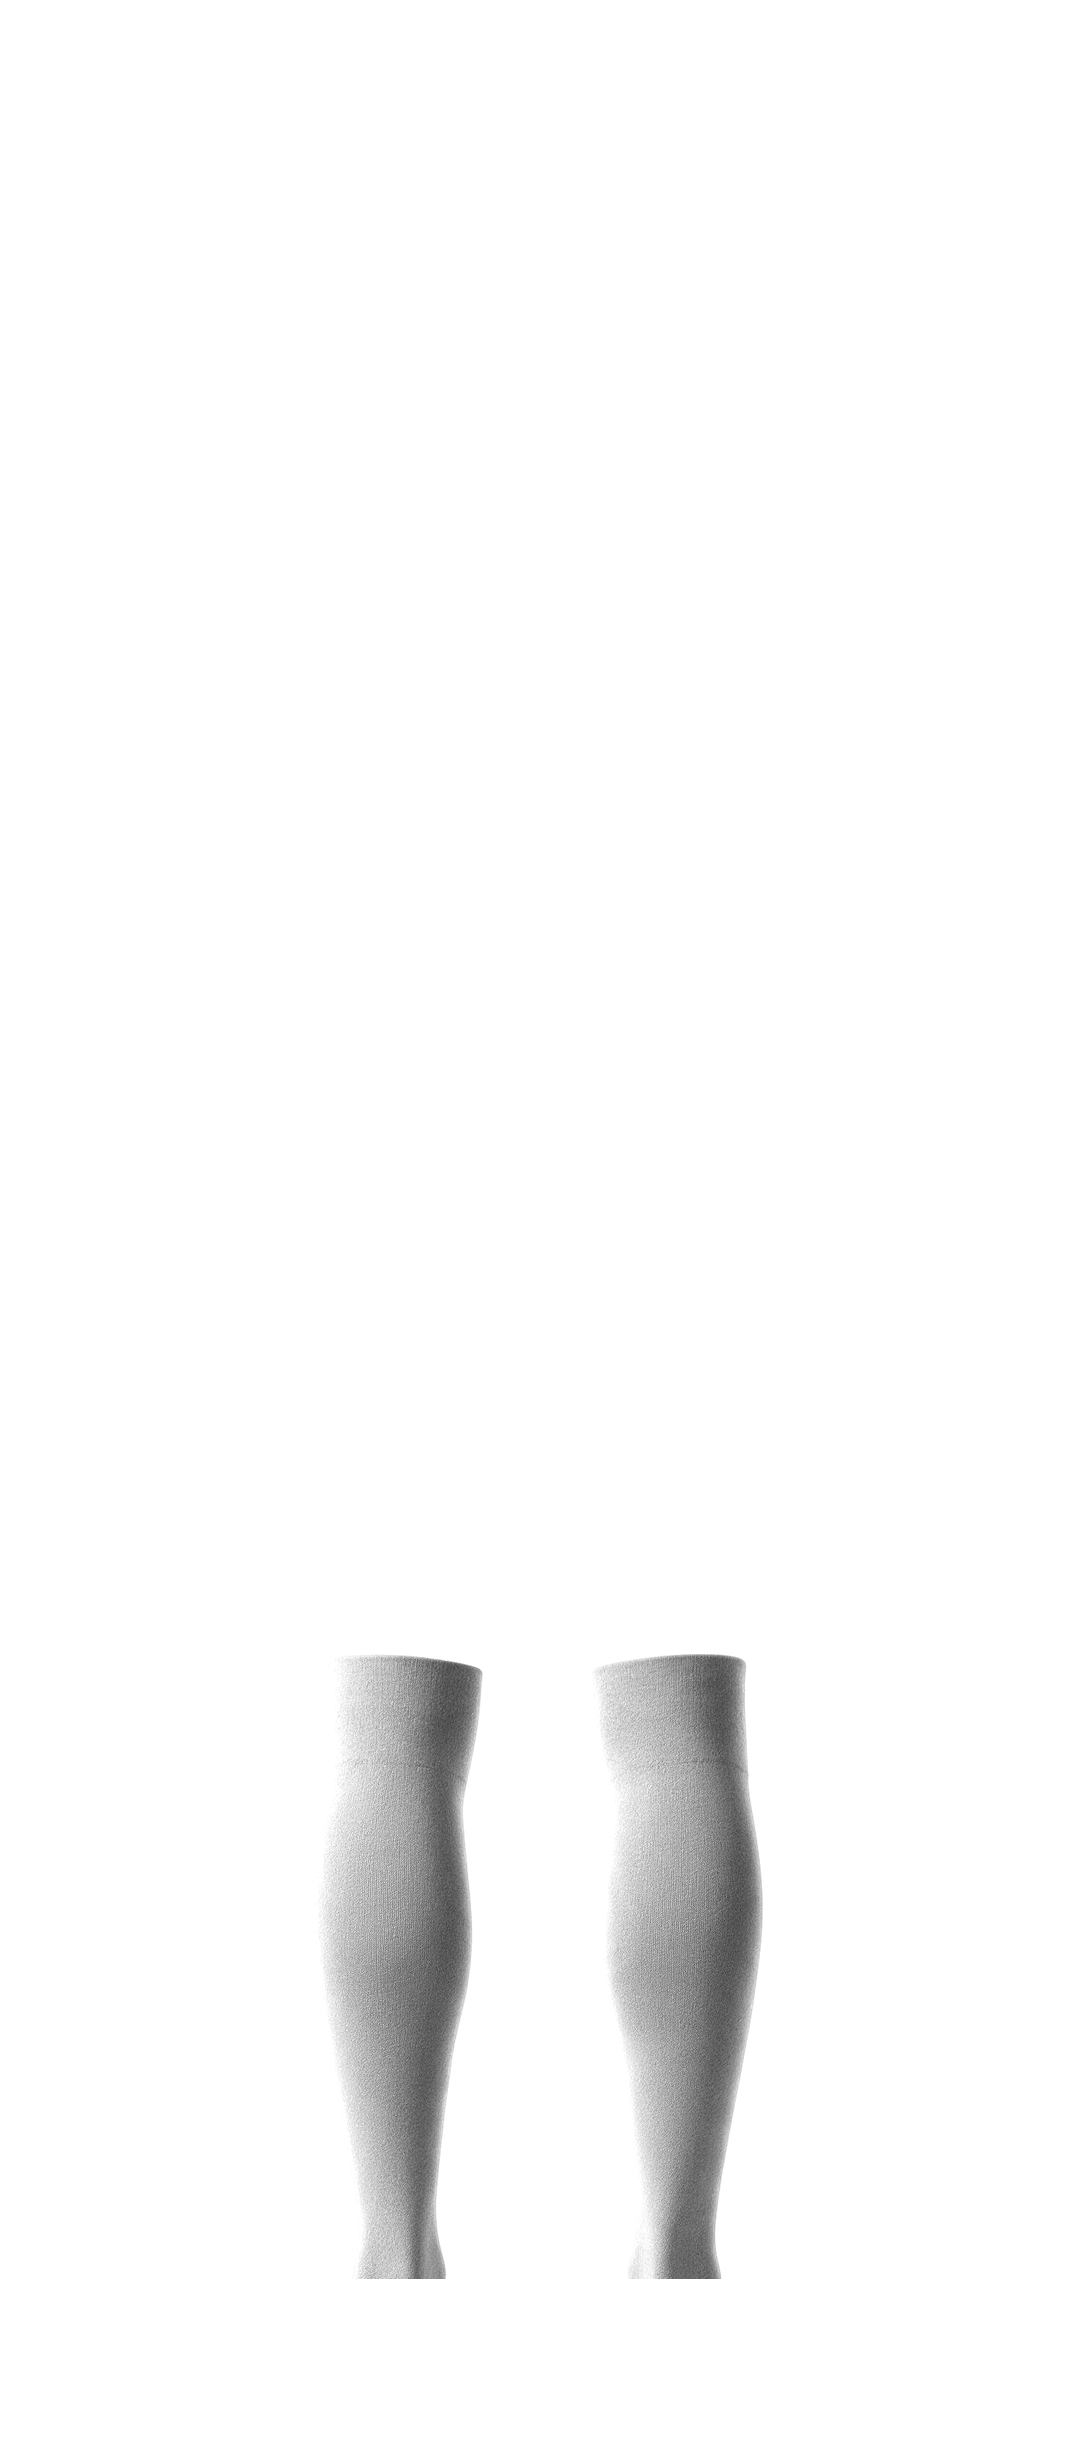
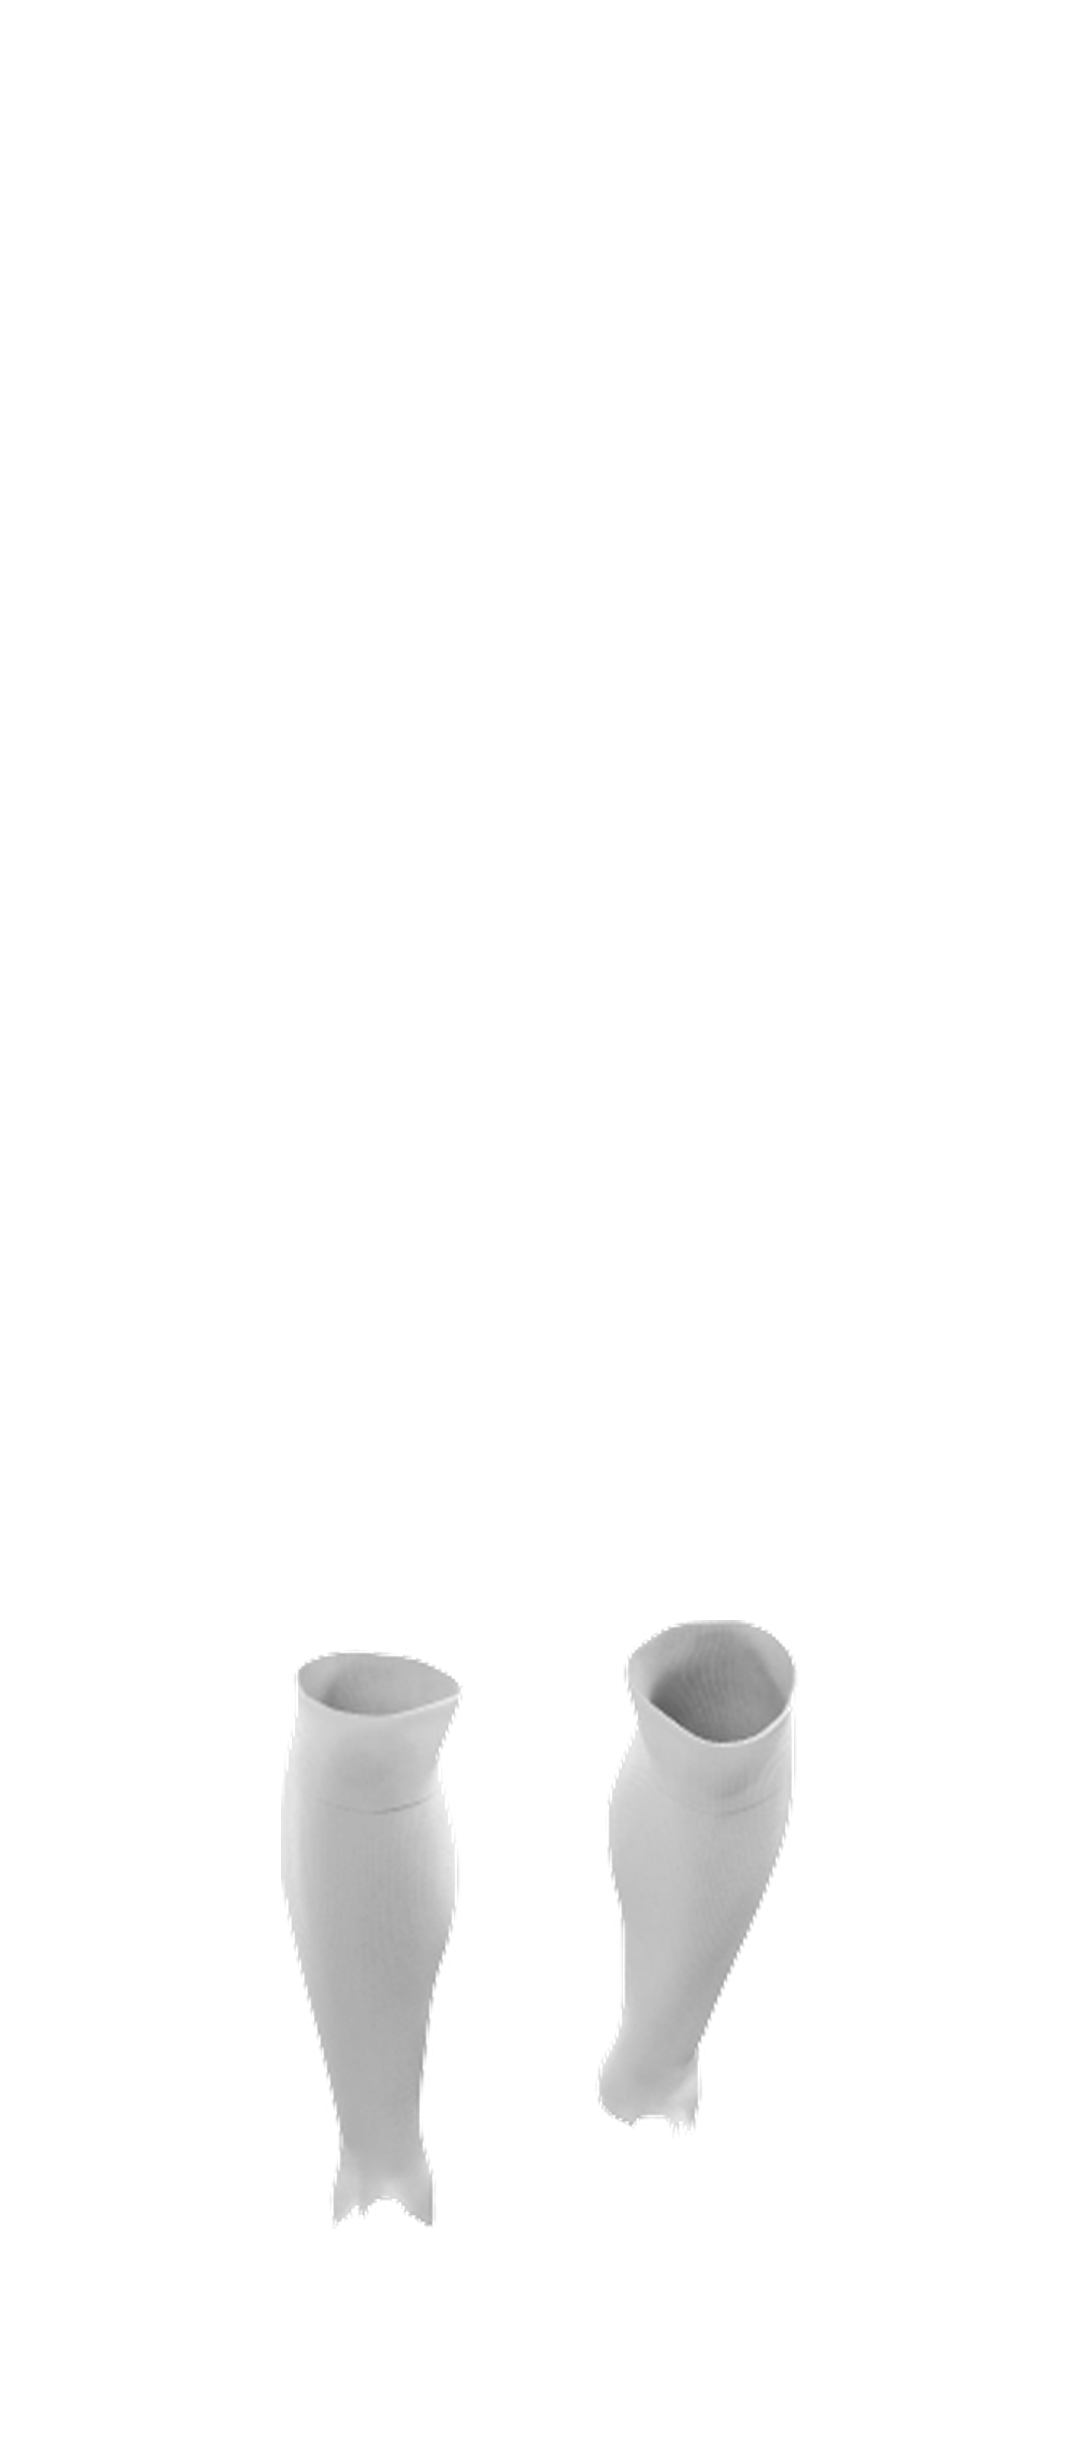
Botas ancoradas as meias, frente com par inteiro e verso dividido

Changed region(s): [[0.2444, 0.6488, 0.4583, 0.9268], [0.55, 0.6488, 0.7333, 0.9268]]

diff --git a/src/lib/kitReal.ts b/src/lib/kitReal.ts
@@ -19,8 +19,8 @@ import { CAMADAS, COR_FUNDO, QUADRO } from './estampas/milanDados';
     a GOLA (senão o tema sobe pelo pescoço e parece gola alta; a gola fica
     com a cor base). */
 const CAIXA_CORPO: Record<LadoKit, { x: number; y: number; w: number; h: number }> = {
-  frente: { x: 321, y: 126, w: 437, h: 872 },
-  verso: { x: 317, y: 128, w: 450, h: 896 },
+  frente: { x: 323, y: 108, w: 440, h: 880 },
+  verso: { x: 319, y: 109, w: 441, h: 889 },
 };
 
 function noLado(svg: string, lado: LadoKit): string {

diff --git a/scripts/montar-originais.py b/scripts/montar-originais.py
@@ -1,0 +1,150 @@
+"""
+Monta o conjunto com os FICHEIROS ORIGINAIS da referência, intactos.
+
+REGRA (do cliente): não deformar nem recriar nenhum modelo. Aqui os pixéis
+não são tocados — sem dessaturação, sem cortes, sem escala anisotrópica.
+Todas as peças levam UM MESMO fator de escala uniforme (como no motor da
+referência, onde partilham a prancheta) e o script só decide posições.
+
+As botas são divididas do par apenas para POSICIONAR cada uma sob a sua
+meia (recorte de composição, não edição de pixels).
+
+Tela comum: 1080×2460 = wrapper 270×615 (escala 4) — igual à do
+vestir-conjunto.py, para o KitViewer não mudar.
+
+    python3 scripts/montar-originais.py "<pasta>"
+        pasta com futebol_masculino_2_{camisa,calcao,meiao}[_verso].webp
+        e futebol_masculino_2_detalhe.webp (botas; _verso ainda em falta —
+        o par de frente serve os dois lados até chegar).
+"""
+import os
+import sys
+
+import numpy as np
+from PIL import Image
+
+M = 4
+W, H = 270 * M, 615 * M
+
+# um único fator para TODAS as peças (wrapper px por px do ficheiro)
+FATOR = 0.81
+
+# topo de cada peça (wrapper coords); larguras decorrem do fator
+TOPOS = {'camisa': 8, 'calcao': 244, 'meiao': 405}
+
+
+def carregar(pasta, nome):
+    """Carrega e converte a REPRESENTAÇÃO (não os pixéis) para o nosso motor.
+
+    No motor de origem estes webp são camadas de sombra: o alfa é a
+    intensidade do sombreado e a forma sólida vem de um molde SVG que não
+    temos. Achatar a sombra sobre branco dá exatamente a textura multiply
+    que o motor deles produz, e o alfa passa a forma sólida — é o mesmo
+    pipeline, refatorado; nenhum detalhe é redesenhado."""
+    im = Image.open(f'{pasta}/futebol_masculino_2_{nome}.webp').convert('RGBA')
+    im = im.crop(im.getchannel('A').getbbox())
+    a = np.array(im).astype(np.float32)
+    alfa = a[..., 3:4] / 255.0
+    rgb = a[..., :3] * alfa + 255.0 * (1.0 - alfa)
+    forma = np.clip(a[..., 3] * 42.0, 0, 255)
+    out = np.dstack([rgb, forma]).astype(np.uint8)
+    return Image.fromarray(out)
+
+
+def escalar(im):
+    f = FATOR * M
+    return im.resize((round(im.width * f), round(im.height * f)), Image.LANCZOS)
+
+
+def blocos(im, folga=6):
+    """Colunas ocupadas → os dois blocos (peça esquerda/direita) do par."""
+    a = np.array(im.getchannel('A'))
+    xs = np.where((a > 40).any(axis=0))[0]
+    g = [b for b in np.split(xs, np.where(np.diff(xs) > folga)[0] + 1) if len(b) > 4]
+    g = sorted(sorted(g, key=len, reverse=True)[:2], key=lambda b: b[0])
+    return g
+
+
+def montar(pasta, lado):
+    sufixo = '' if lado == 'frente' else '_verso'
+    telas = {}
+
+    for peca in ('camisa', 'calcao', 'meiao'):
+        im = escalar(carregar(pasta, peca + sufixo))
+        tela = Image.new('RGBA', (W, H), (0, 0, 0, 0))
+        x0 = round(135 * M - im.width / 2)
+        y0 = TOPOS[peca] * M
+        tela.alpha_composite(im, (x0, y0))
+        nome_peca = 'camisola' if peca == 'camisa' else peca
+        tela.save(f'public/moldes/vestida-{nome_peca}-{lado}.png')
+        telas[peca] = (tela, im, x0, y0)
+        print(f'{nome_peca}-{lado}: ({x0},{y0}) {im.width}x{im.height} '
+              f'[{im.width / M:.0f}×{im.height / M:.0f} wrapper]')
+
+        if peca == 'camisa':
+            # caixa do tronco p/ a estampa: linha a 55% sem mangas; gola
+            # excluída pelos primeiros 8% da altura
+            arr = np.array(tela.getchannel('A'))
+            xs = np.where(arr[y0 + int(im.height * 0.55)] > 60)[0]
+            cy = y0 + int(im.height * 0.08)
+            print(f'   caixa estampa {lado}: x={xs.min()}, y={cy}, '
+                  f'w={xs.max() - xs.min()}, h={y0 + im.height - cy}')
+
+    # botas (sem detalhe_verso.webp, o par de frente serve os dois lados):
+    # na composição original só a bota DE PÉ recebe uma meia; a inclinada é
+    # um adereço pousado ao lado. O par entra INTEIRO (composição intacta),
+    # ancorado pela abertura da bota de pé ao tornozelo da meia esquerda,
+    # com os fundos na linha de chão.
+    tela_meiao, im_meiao, mx0, my0 = telas['meiao']
+    am = np.array(im_meiao.getchannel('A'))
+    b1 = blocos(im_meiao)[0]
+    col = am[:, b1[0]:b1[-1] + 1]
+    ys = np.where((col > 40).any(axis=1))[0]
+    alto = int(ys[-1] - (ys[-1] - ys[0]) * 0.10)
+    xs = np.where((col[alto:ys[-1] + 1] > 40).any(axis=0))[0]
+    tornozelo = mx0 + b1[0] + (xs[0] + xs[-1]) / 2
+
+    par = escalar(carregar(pasta, 'detalhe'))
+    bp = blocos(par)[0]
+    ap = np.array(par.getchannel('A'))
+    colp = ap[:, bp[0]:bp[-1] + 1]
+    ysp = np.where((colp > 40).any(axis=1))[0]
+    topo = colp[ysp[0]:ysp[0] + max(int(len(ysp) * 0.15), 4)]
+    xsp = np.where((topo > 40).any(axis=0))[0]
+    abertura = bp[0] + (xsp[0] + xsp[-1]) / 2
+
+    tela = Image.new('RGBA', (W, H), (0, 0, 0, 0))
+    if lado == 'frente':
+        # par inteiro: a composição original já casa com as meias da frente
+        x0 = round(tornozelo - abertura)
+        y0 = 600 * M - par.height
+        tela.alpha_composite(par, (x0, y0))
+        print(f'botas-{lado}: par em ({x0},{y0})')
+    else:
+        # as meias do verso são mais abertas que a composição do par:
+        # divide-se (posições apenas) — bota de pé no tornozelo esquerdo,
+        # bota inclinada com a abertura sob a meia direita, ambas no chão
+        cold = am[:, blocos(im_meiao)[1][0]:blocos(im_meiao)[1][-1] + 1]
+        ysd = np.where((cold > 40).any(axis=1))[0]
+        altod = int(ysd[-1] - (ysd[-1] - ysd[0]) * 0.10)
+        xsd = np.where((cold[altod:ysd[-1] + 1] > 40).any(axis=0))[0]
+        tornozelo_dir = mx0 + blocos(im_meiao)[1][0] + (xsd[0] + xsd[-1]) / 2
+
+        alvos_x = (tornozelo, tornozelo_dir)
+        for b, alvo_x in zip(blocos(par), alvos_x):
+            bota = par.crop((b[0], 0, b[-1] + 1, par.height))
+            bota = bota.crop(bota.getchannel('A').getbbox())
+            ab = np.array(bota.getchannel('A'))
+            topo_b = ab[:max(int(ab.shape[0] * 0.15), 4)]
+            xsb = np.where((topo_b > 40).any(axis=0))[0]
+            x0 = round(alvo_x - (xsb[0] + xsb[-1]) / 2)
+            y0 = 600 * M - bota.height
+            tela.alpha_composite(bota, (x0, y0))
+            print(f'botas-{lado}: bota em ({x0},{y0}) {bota.width}x{bota.height}')
+    tela.save(f'public/moldes/botas-{lado}.png')
+
+if __name__ == '__main__':
+    pasta = sys.argv[1]
+    os.chdir(os.path.dirname(os.path.dirname(os.path.abspath(__file__))))
+    for lado in ('frente', 'verso'):
+        montar(pasta, lado)
